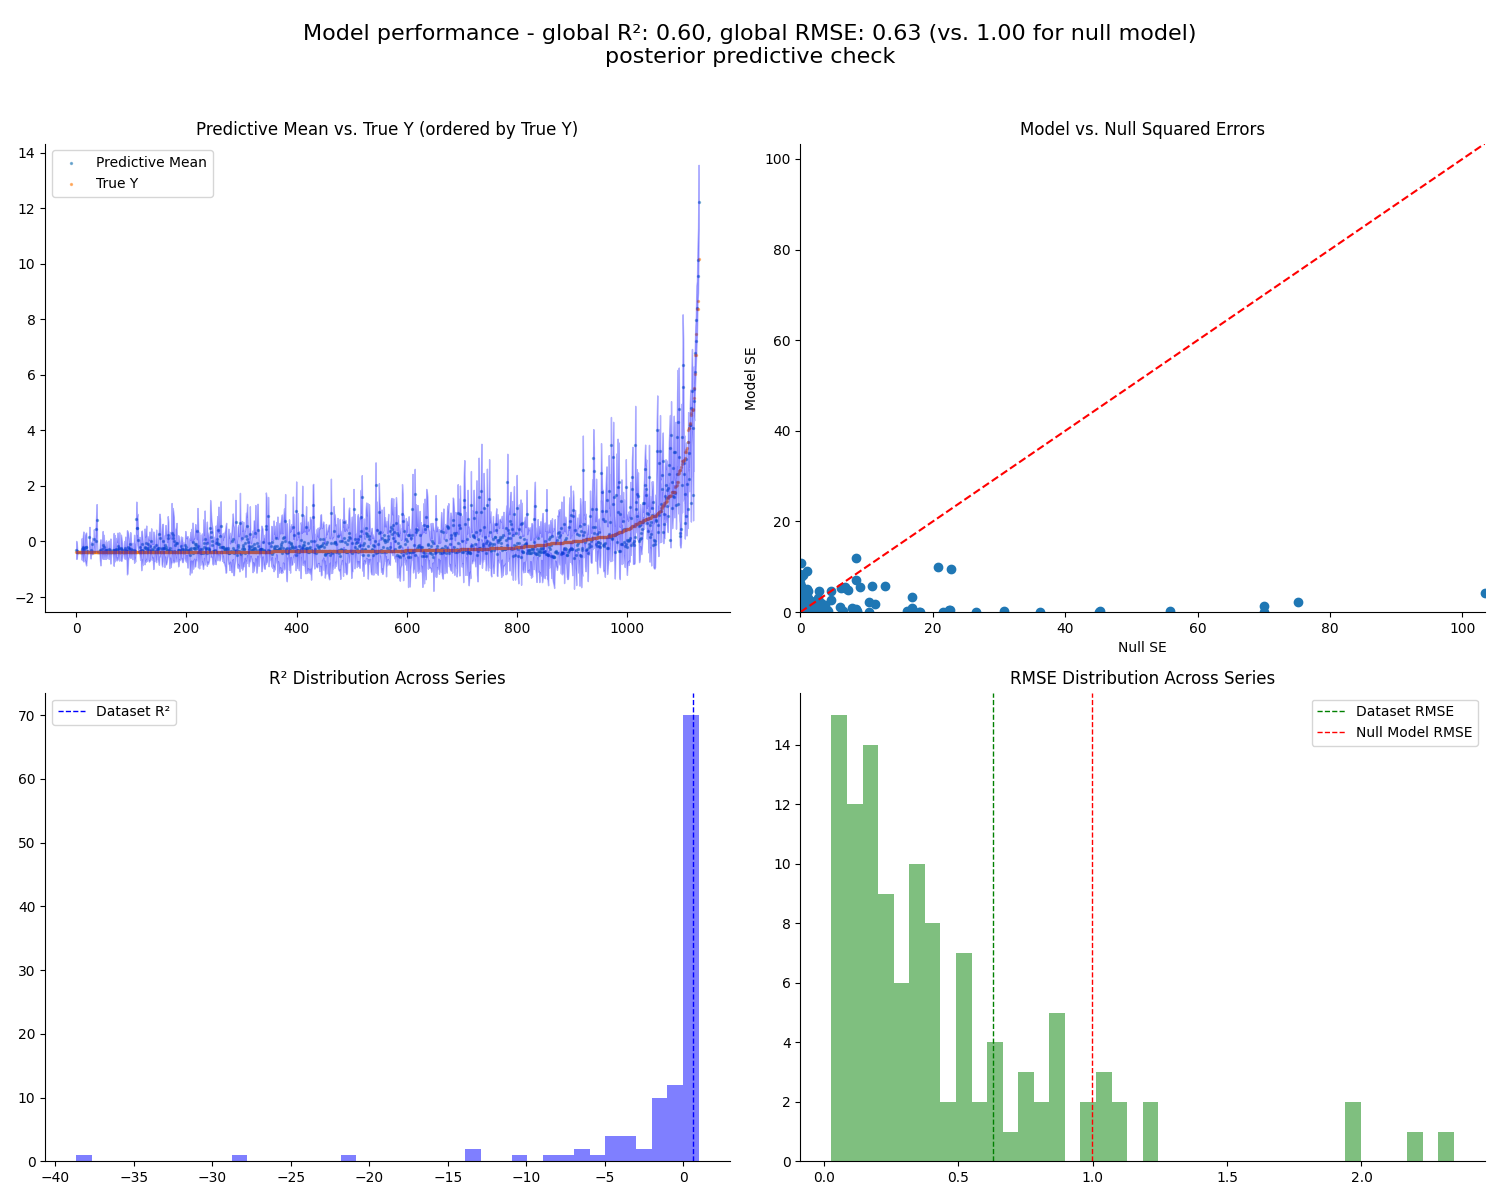
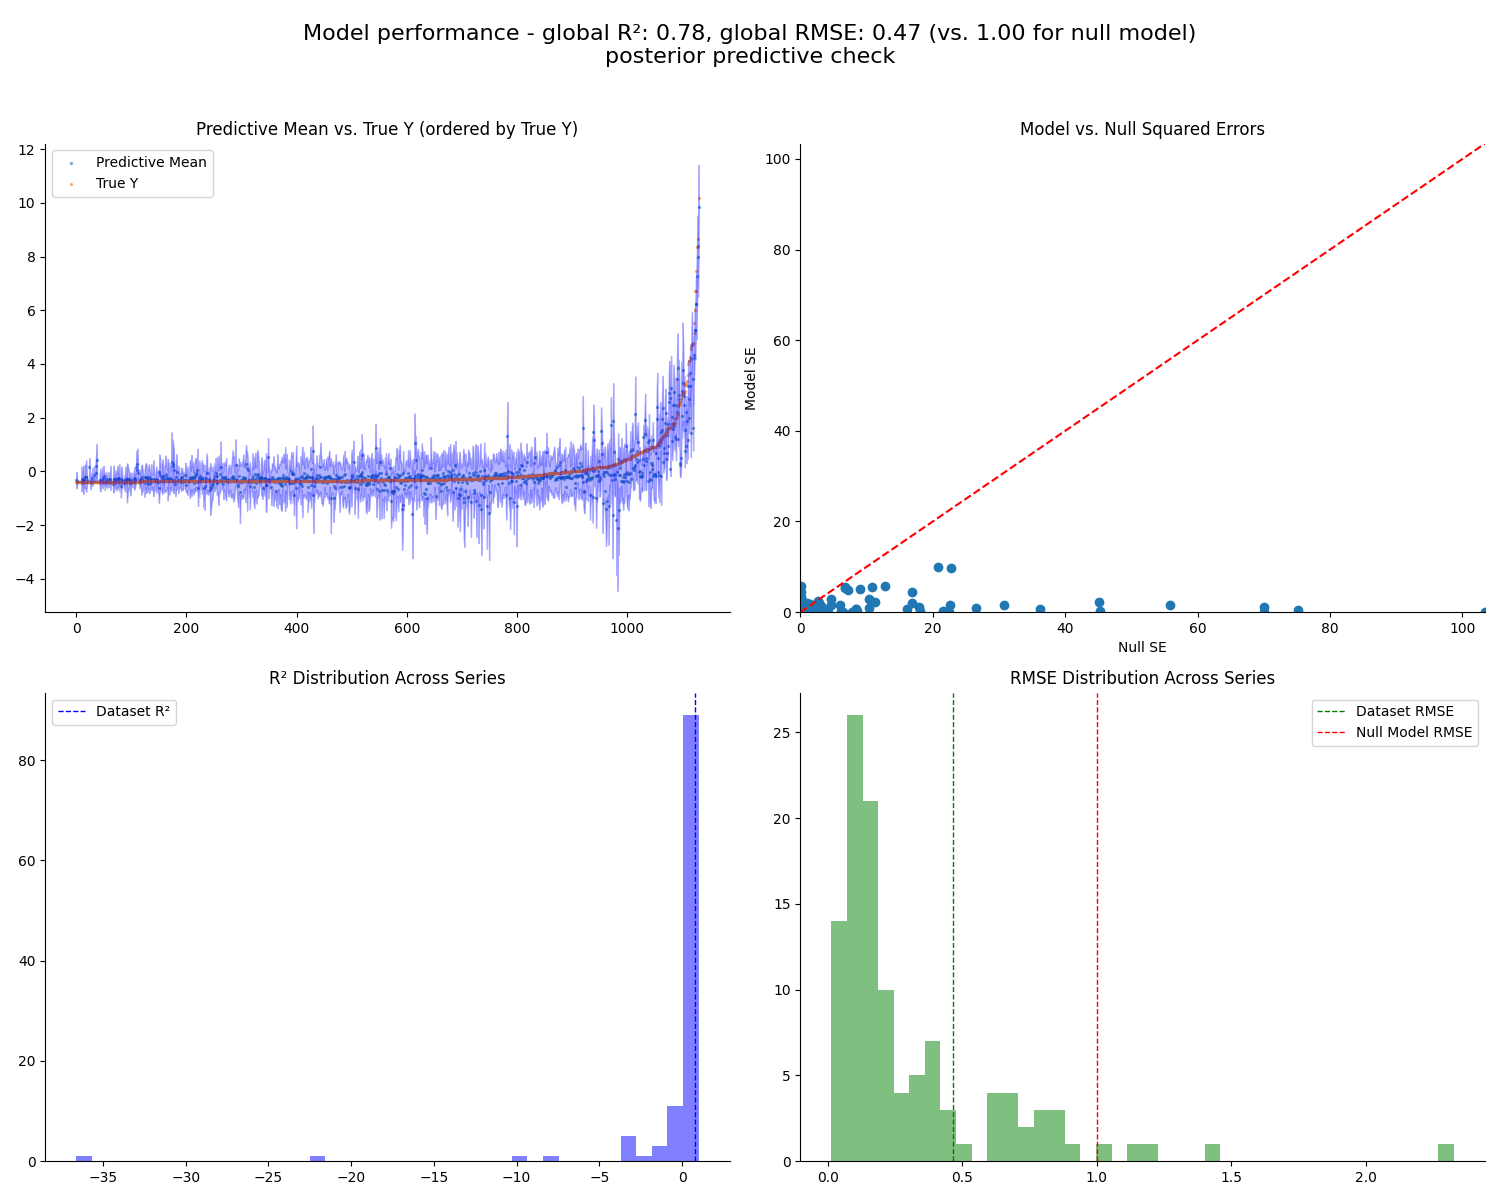
added segregation component

diff --git a/cities/modeling/zoning_models/zoning_tracts_ts_model.py b/cities/modeling/zoning_models/zoning_tracts_ts_model.py
@@ -11,6 +11,7 @@ from cities.modeling.model_components import (
     get_categorical_levels,
     check_categorical_is_subset_of_levels,
     add_linear_component,
+    add_ratio_component,
 )
 
 
@@ -127,9 +128,9 @@ class TractsModelCumulativeAR1(pyro.nn.PyroModule):
                 "limit", dist.Normal(0, 1), obs=continuous["mean_limit_original"]
             )
 
-            segregation = pyro.sample(
-                "segregation", dist.Normal(0, 1), obs=continuous["segregation_original"]
-            )
+            # segregation = pyro.sample(
+            #     "segregation", dist.Normal(0, 1), obs=continuous["segregation_original"]
+            # )
 
             sqm = pyro.sample(
                 "sqm", dist.Normal(0, 1), obs=continuous["parcel_sqm"]
@@ -146,6 +147,31 @@ class TractsModelCumulativeAR1(pyro.nn.PyroModule):
                 dist.Normal(0, 1),
                 obs=continuous["university_overlap"],
             )
+
+        # ___________________________
+        # regression for segregation
+        # ___________________________
+
+        segregation_continuous_parents = {
+            "distance": distance,
+            "white": white,
+            "sqm": sqm,
+            "limit": limit,
+        }
+
+        segregation_categorical_parents = {
+            "year": year,
+        }
+
+        segregation = add_ratio_component(
+            child_name="segregation",
+            child_continuous_parents=segregation_continuous_parents,
+            child_categorical_parents=segregation_categorical_parents,
+            leeway=8,  # 11.57,
+            data_plate=data_plate,
+            observations=continuous["segregation_original"],
+            categorical_levels=self.categorical_levels,
+        )
 
         # ______________________
         # regression for income
